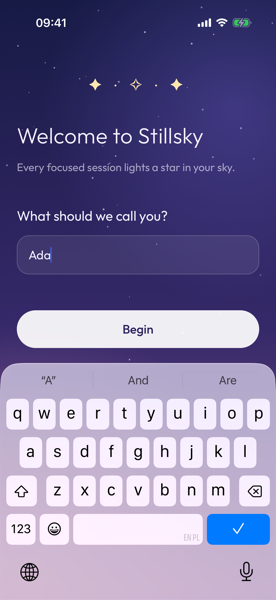
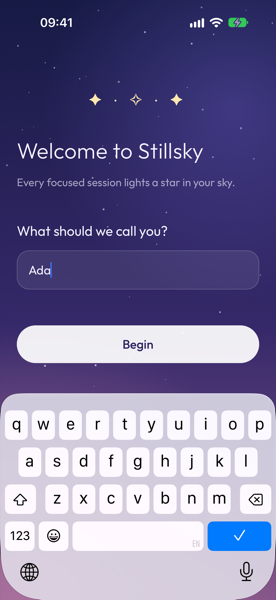
docs: retake iOS screenshots on iPhone 18 Pro / iOS 27

diff --git a/README.md b/README.md
@@ -22,7 +22,7 @@ Fill constellations by staying focused. Give up early, and your star falls.
 <img src="docs/screenshots/android-focus.png" width="190" alt="Focus timer on Android" />
 <img src="docs/screenshots/android-sky.png" width="190" alt="Sky on Android" />
 
-<sub>iPhone 17 Pro (iOS 26) and Pixel 9 (Android 17)</sub>
+<sub>iPhone 18 Pro (iOS 27) and Pixel 9 (Android 17)</sub>
 
 </div>
 
